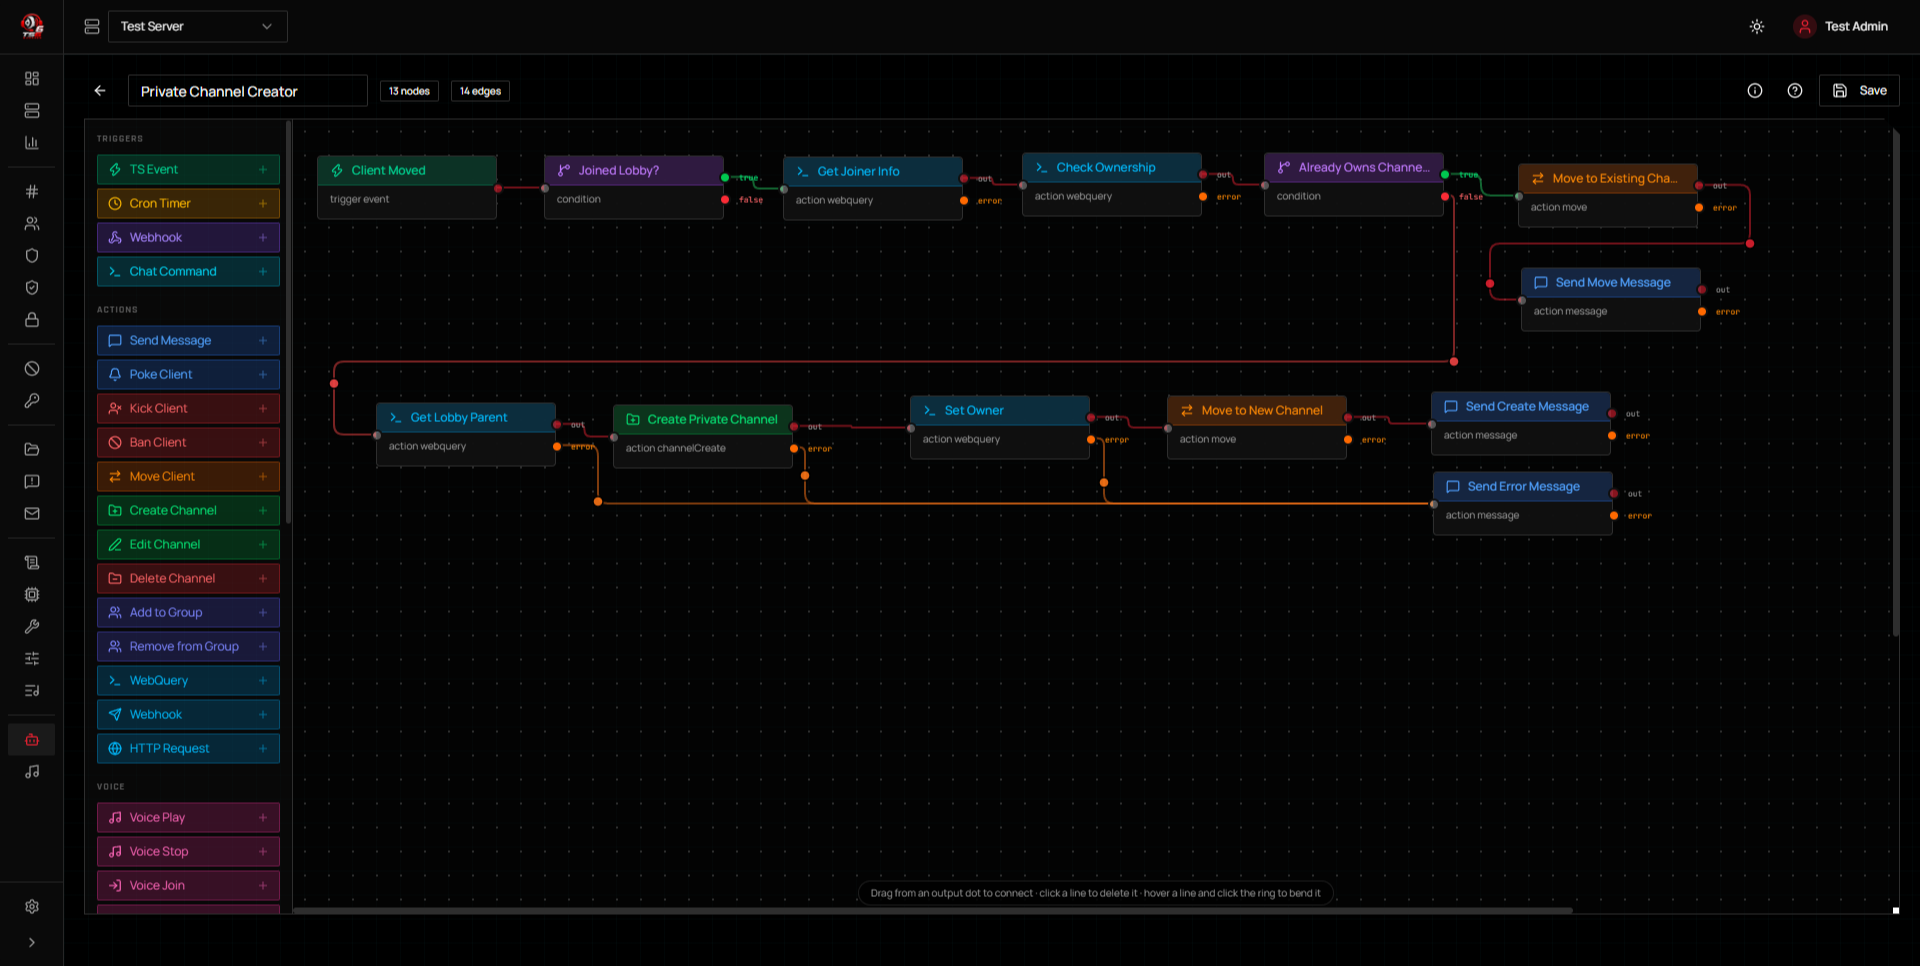
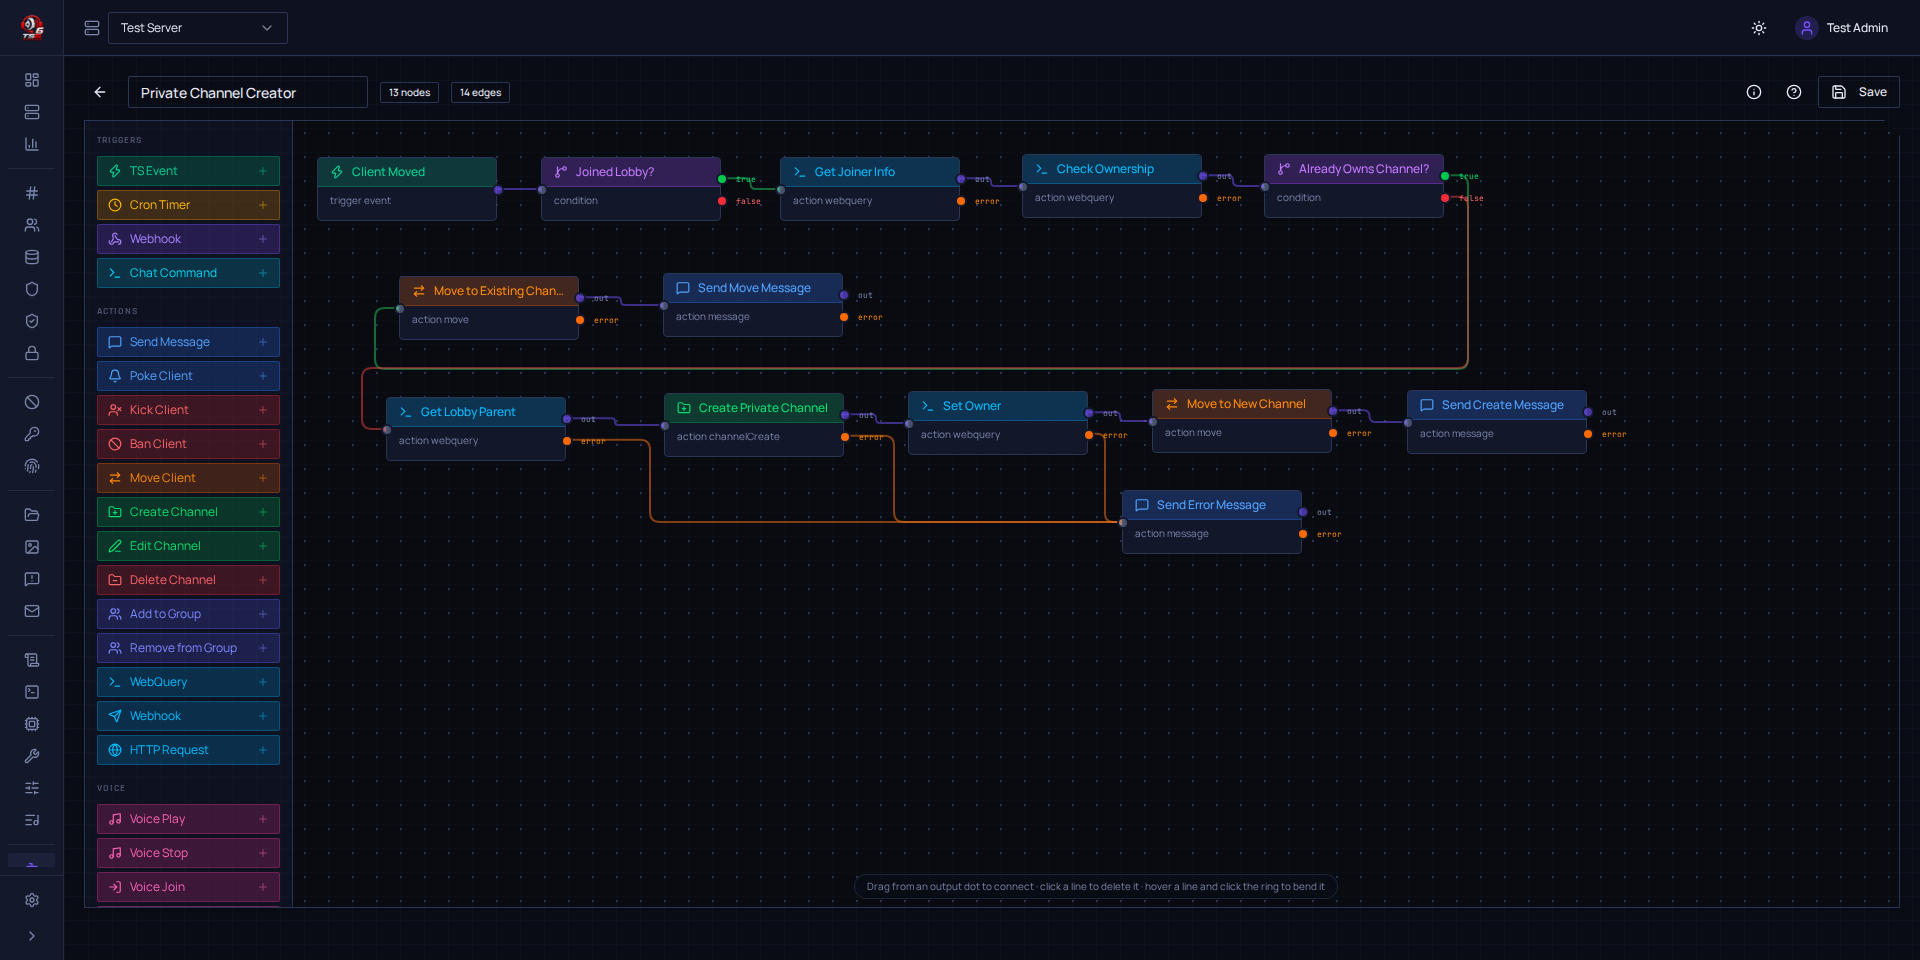
docs(readme): retake five screenshots on the current version
Music bots, flow editor, flow templates, permission compare and video
streaming, taken at 1920x960 in the default Cockpit layout and the
default theme (Command Deck, violet) against the local test server.
The dashboard picture stays as it is for now; the slot for a Lounge
dashboard picture is left out until that picture exists.

diff --git a/README.md b/README.md
@@ -23,10 +23,6 @@ Live users, channels, uptime, ping and bandwidth of a virtual server, with tiles
 
 ![Dashboard](docs/dashboard.png)
 
-The same dashboard in the **Lounge** layout, the alternative to the default Cockpit layout:
-
-![Dashboard in the Lounge layout](docs/dashboard-lounge.png)
-
 ### Music Bots
 Several bots per server, each with its own queue and volume, playing radio, YouTube or your own library.
 
